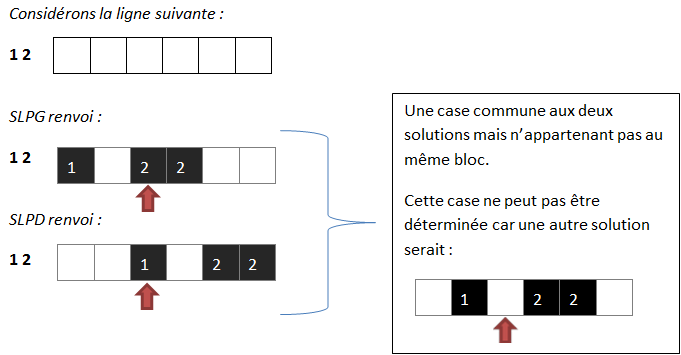
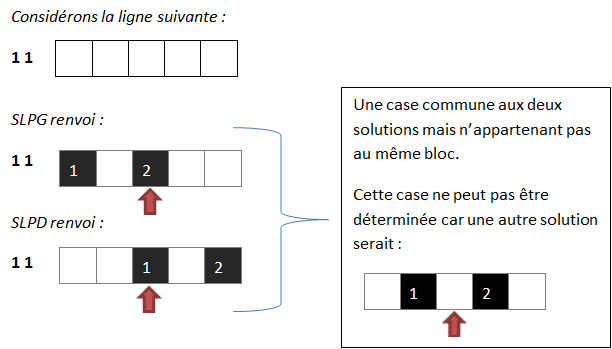
Encore des modifs Rapport

diff --git a/Rapport latex/RapportPicross.tex b/Rapport latex/RapportPicross.tex
@@ -116,7 +116,7 @@ Une telle méthode permettrait de déterminer un grand nombre de cases. En revan
 \newline
 C'est pourquoi, au lieu de générer toutes les solutions, nous avons choisi d'en générer deux; la plus à gauche et la plus à droite. Cette méthode ne permet pas de déterminer autant de cases que la précédente mais elle est nettement moins coûteuse.
 \subsection{Résolution d'une ligne}
-La résolution d'une ligne passe par l'appel des fonctions SLPG et SLPD donnant respectivement la solution la plus à gauche et la solution la plus à droite de la ligne.
+La résolution d'une ligne passe par l'appel de deux méthodes donnant respectivement la solution la plus à gauche et la solution la plus à droite de la ligne.
 \newline
 On fait ensuite la fusion de ces deux solutions afin de déterminer les cases nécessairement noires et celles nécessairement blanches.
 \subsubsection{La méthode SLG}
@@ -208,31 +208,50 @@ Ainsi, en notant c la complexité dans ce pire des cas: $\theta(n^2) <$c$\leq\th
 \paragraph{Complexité meilleur des cas : $\theta$(n)\newline}
 Dans le meilleur des cas la liste est vide, on doit pacourir une fois le tableau pour pouvoir vérifier.
 \subsubsection{Les méthodes SLPG et SLPD}
-Les méthodes SLPG et SLPD génèrent respectivement pour une ligne, sa solution la plus à gauche et sa solution la plus à droite. Elles font toutes deux appel à SLG avec i=0. 
+Les méthodes SLPG et SLPD sont les méthodes qui génèrent les deux solutions nécessaires à la résolution d'une ligne. Elles font toutes deux appel à SLG avec i=0. 
 \newline
 Pour la solution droite, SLG est appelé sur une ligne et une liste d'indices préalablement inversées.
 \subsubsection{La méthode Fusion}
 A la suite des appels à SLPG et SLPD, nous aurons deux solutions possibles pour une ligne; or, pour parvenir à la résolution de notre Picross, il nous faut déterminer les cases n'ayant qu'une solution. 
 \newline
-Pour ce faire, on fait appel à Fusion qui ne gardera que les cases noires communes aux deux solutions.
-Cette dernière nécessite que nos blocs de cases noires soient numérotées (appel à la méthode Numeroter).
+Pour ce faire, on fait appel à Fusion qui placera les cases nécessairement noires.
+Cette dernière nécessite que nos blocs de cases noires soient numérotées. Pour cela, on fait donc appel à une méthode Numeroter qui consiste à numéroter avec les numéros de blocs, les cases noires de nos solutions SLPG-SLPD.
 \newline
-En effet, le status de case noire sûre ne peut être défini que si une case noire commune aux deux solutions appartient à un même et une unique bloc.
+Fusion sera ainsi en mesure de noircir les cases qui sont noires dans SLPG et SLPD et qui ont le même numéro de bloc.
+En effet, le status de case noire sûre ne peut être défini que si une case noire commune aux deux solutions appartient à un même et unique bloc.
 \newline
 L'exemple ci-dessous illustre l'importance de cette spécification.  
 \newline
 \includegraphics[height=6.5cm,width=12cm]{Exemple1}
 \subsubsection{La méthode remplirCasesSureBl}
 Cette méthode est appelée après Fusion dans le but de placer les cases blanches sûres. Elle est en mesure de les déterminer grâce aux solutions SLPG-SLPD en calculant les envergures des blocs de cases noires. Dès lors, les espaces situés entre les intervalles trouvés sont des cases blanches sûres.
-\paragraph{remplirCasesSureBl} commence par générer une ligne de cases blanche de la même taille que celles prises en paramétre; à savoir, le résultat de Fusion et les solutions SLPG-SLPD; puis ``noircit'' les cases correspantes à l'intervalle qu'occupe chacun des blocs dans l'une et l'autre des solutions SLPG-SLPD.
+\paragraph{remplirCasesSureBl} commence par générer une ligne de cases blanche de la même taille que celles prises en paramétres; à savoir, le résultat de Fusion et les solutions SLPG-SLPD; puis ``noircit'' les cases correspantes à l'intervalle qu'occupe chacun des blocs dans l'une et l'autre des solutions SLPG-SLPD.
 \newline
 A la fin de ce procédé, elle copie les cases blanches restantes dans le résultat de Fusion.
-\subsubsection{Ajout de la ligne à la grille de Picross}
-Une fois les cases sûres noires et blanches ajoutées à notre ligne, on vérifie par la méthode isFini si elle complète ou non, afin de ne plus la traiter si tel est le cas.
+\subsection{Résolution du Picross}
+Pour résoudre un Picross, les méthodes précédentes sont appelées sur les lignes et colonnes du Picross tant qu'une case est modifiée. En effet, pour éviter de traiter une ligne ou colonne où aucune case n'a été modifiée, on conserve l'ensemble des indices de case modifiée afin de rappeler les méthodes sur les lignes/colonnes correspondantes.
 \newline
-Ensuite, on ajoute les indices des cases qui ont été modifiées à une liste appelées colModif. Celle-ci permettra de traiter par la suite les colonnes où une case à été ajoutée.
-\newline
-Pour finir, on recopie notre ligne ainsi complétée dans la grille de Picross.
+La méthode de résolution du Picross se résume donc ainsi : 
+\begin{itemize}
+\item traiter ligne;
+\item liste C == colonnes à traiter;
+\item tant que la liste n'est pas vide 
+  \begin{itemize}
+  \item liste L == vide;
+  \item pour chaque i de C faire
+    \begin{itemize}
+    \item L == L + traiter ligne(i);
+    \end{itemize}
+  \item fin pour;
+  \item C == vide;
+  \item pour chaque i de L faire
+    \begin{itemize}
+    \item C == C + traiter colonne(i);
+    \end{itemize}
+  \item fin pour;
+  \end{itemize}
+\item fin tant que;
+\end{itemize}
 \subsection{Algorithmes remarquables}
 \subsubsection{la méthode de Backtracking}
 A l'aide de nos méthodes précédentes, il peut arriver que des cases ne puissent être déterminées;\newline
@@ -317,16 +336,14 @@ Elle représente un indice logique
 \begin{itemize}
 \item Attributs :
 \begin{itemize}
-\item Longueur : qui représente la longueur de la liste. Cette attribut et incrémenter ou décrémenter automatiquement d\`es qu'il y a variations de la taille de la
-liste.
+\item Longueur : qui représente la longueur de la liste. Cette attribut et incrémenter ou décrémenter automatiquement d\`es qu'il y a variations de la taille de la liste.
 \item Fini : Nous indique si la ligne/colonne a laquelle est rattaché la liste est enti\`erement remplie (booléen à  true) ou non (booléen à  false), cette attribut est
 notamment tr\`es utile pour vérifier la condition d'arrêt de notre résolution (cf. main)
 \item Tête : Pointeur vers le premier élément de la liste.
 \end{itemize}
 \item Méthode remarquable :
 \begin{itemize}
-\item Surcharge de l'opérateur() : Nous avons utiliser l'operateur() comme un operateur d'indexage d'une liste cela nous permet notamment de faciliter l'acc\`es
-à un element de la liste
+\item Surcharge de l'opérateur() : Nous avons utiliser l'operateur() comme un operateur d'indexage d'une liste cela nous permet notamment de faciliter l'accès à un element de la liste.
 \end{itemize}
 \end{itemize}
 \subsubsection{La classe Tabliste :}
